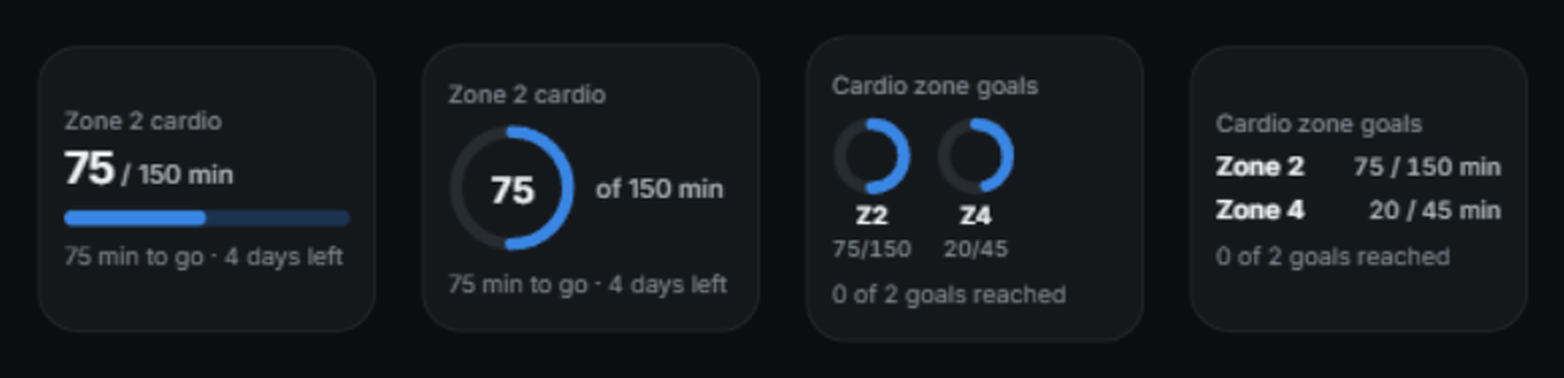
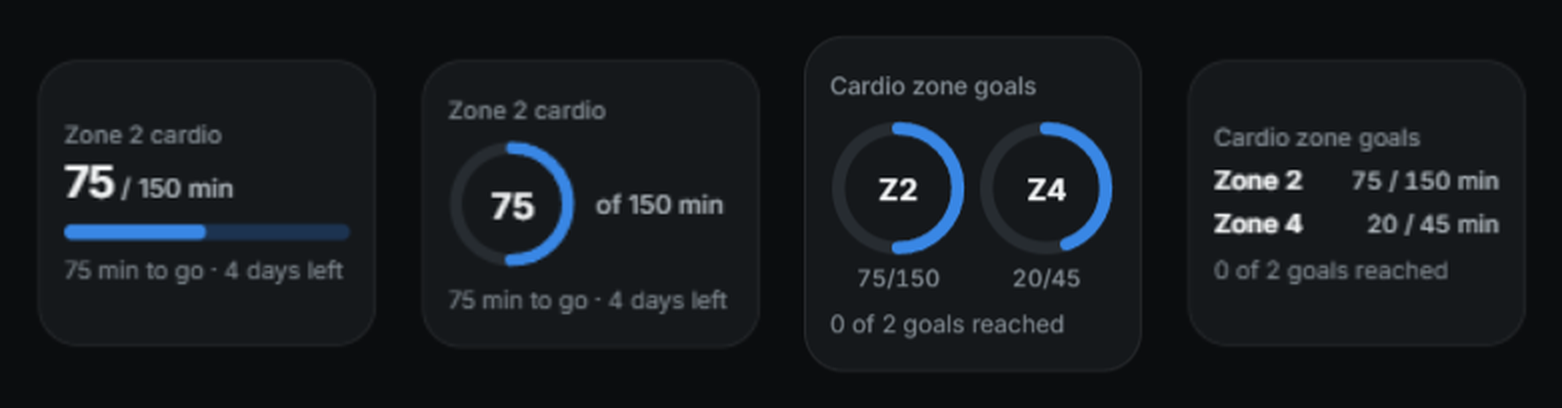
Scale goal rings to fill the Home cardio card
Rings for several goals now share the card width instead of using a
fixed 40px size, with the zone label inside each ring. Compact cards
balance rows (4 as 2 x 2, 5 as 3 + 2, centred); wide cards fit up to the
five-goal limit in one row. Rings are capped at 80px.

diff --git a/frontend/src/CardioGoalCard.tsx b/frontend/src/CardioGoalCard.tsx
@@ -1,3 +1,4 @@
+import type { CSSProperties } from 'react';
 import { trackedCardioGoals } from './cardioZones';
 import { Meter } from './PulseCharts';
 import type { CardioGoalCardSettings } from './homeLayout';
@@ -14,15 +15,24 @@ function status(goals: CardioGoalWeek[], daysLeft: number | null) {
   return `${goals[0].remaining_minutes} min to go${days}`;
 }
 
-function Ring({ goal, size }: { goal: CardioGoalWeek; size: number }) {
+/** A fluid ring fills its cell; its viewBox keeps the stroke proportional. */
+function Ring({
+  goal,
+  size,
+  fluid = false,
+}: {
+  goal: CardioGoalWeek;
+  size: number;
+  fluid?: boolean;
+}) {
   const radius = (size - 8) / 2;
   const circumference = 2 * Math.PI * radius;
   const ratio = goal.goal_minutes ? Math.min(1, goal.completed_minutes / goal.goal_minutes) : 0;
   return (
     <svg
       className={`cardio-goal-ring${goal.complete ? ' complete' : ''}`}
-      width={size}
-      height={size}
+      width={fluid ? undefined : size}
+      height={fluid ? undefined : size}
       viewBox={`0 0 ${size} ${size}`}
       role="meter"
       aria-label={`Zone ${goal.zone} minutes this week`}
@@ -82,11 +92,23 @@ export function CardioGoalCard({
             <small>of {single.goal_minutes} min</small>
           </span>
         ) : (
-          <span className="cardio-goal-rings">
+          <span
+            className="cardio-goal-rings"
+            style={
+              {
+                '--ring-count': tracked.length,
+                // Compact cards balance rows: 4 as 2 × 2, 5 as 3 + 2.
+                '--ring-columns':
+                  tracked.length <= 3 ? tracked.length : Math.ceil(tracked.length / 2),
+              } as CSSProperties
+            }
+          >
             {tracked.map((goal) => (
               <span key={goal.zone}>
-                <Ring goal={goal} size={40} />
-                <b>Z{goal.zone}</b>
+                <span className="cardio-goal-ring-value">
+                  <Ring goal={goal} size={64} fluid />
+                  <b>Z{goal.zone}</b>
+                </span>
                 <small>
                   {goal.completed_minutes}/{goal.goal_minutes}
                 </small>

diff --git a/frontend/src/cardioZones.css b/frontend/src/cardioZones.css
@@ -247,25 +247,50 @@
   font-size: 0.8125rem;
   font-weight: 500;
 }
+/* Rings share the card width and grow with it: balanced rows in a compact card, one row when wide. */
 .cardio-goal-card .cardio-goal-rings {
+  --cols: var(--ring-columns);
   display: flex;
   flex-wrap: wrap;
-  gap: 0.5rem 0.75rem;
-  margin-top: 0.5rem;
+  justify-content: center;
+  gap: 0.5rem 0.375rem;
+  margin-top: 0.625rem;
+  container: cardio-rings / inline-size;
+}
+@container cardio-rings (min-width: 15rem) {
+  .cardio-goal-card .cardio-goal-rings > span {
+    --cols: var(--ring-count);
+  }
 }
 .cardio-goal-card .cardio-goal-rings > span {
   display: grid;
+  flex: 0 0 calc((100% - (var(--cols) - 1) * 0.375rem) / var(--cols));
+  grid-template-columns: minmax(0, 1fr);
   justify-items: center;
-  gap: 2px;
+  gap: 4px;
+  min-width: 0;
+  container-type: inline-size;
   font-variant-numeric: tabular-nums;
 }
+.cardio-goal-rings .cardio-goal-ring-value {
+  width: min(100%, 5rem);
+}
+.cardio-goal-rings .cardio-goal-ring {
+  display: block;
+  width: 100%;
+  height: auto;
+  aspect-ratio: 1;
+}
 .cardio-goal-rings b {
+  position: absolute;
   color: var(--p-ink);
-  font-size: 0.75rem;
+  font-size: clamp(0.75rem, 22cqi, 1.125rem);
+  font-weight: 650;
 }
 .cardio-goal-rings small {
   color: var(--p-muted);
-  font-size: 0.6875rem;
+  font-size: clamp(0.625rem, 17cqi, 0.8125rem);
+  white-space: nowrap;
 }
 
 .cardio-card-settings {

diff --git a/frontend/src/CardioGoalCard.test.tsx b/frontend/src/CardioGoalCard.test.tsx
@@ -32,7 +32,10 @@ describe('Home cardio goal card', () => {
 
   it('renders ring and list designs for every goal', () => {
     const rings = render({ zone: null, style: 'ring' });
-    expect(rings.match(/cardio-goal-ring\b/g)).toHaveLength(2);
+    expect(rings.match(/<svg class="cardio-goal-ring/g)).toHaveLength(2);
+    // Rings for several goals scale with the card instead of using a fixed size.
+    expect(rings).not.toMatch(/<svg[^>]*width=/);
+    expect(rings).toContain('<b>Z4</b>');
     expect(rings).toContain('cardio-goal-ring complete');
     expect(rings).toContain('1 of 2 goals reached');
     const list = render({ zone: null, style: 'list' });
